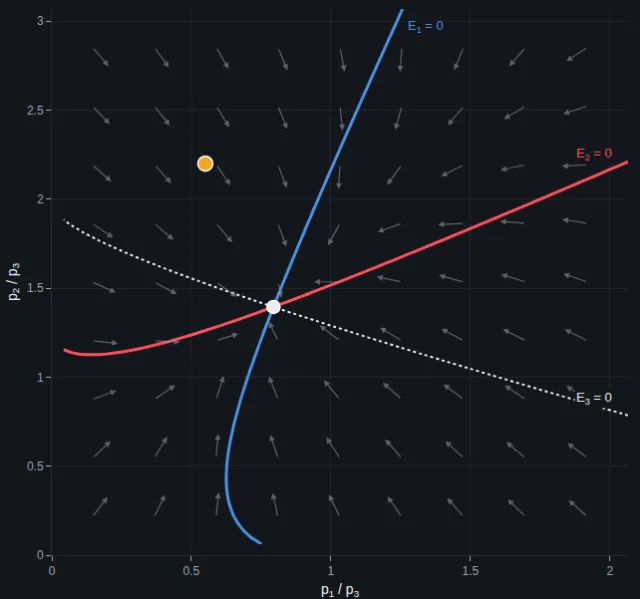
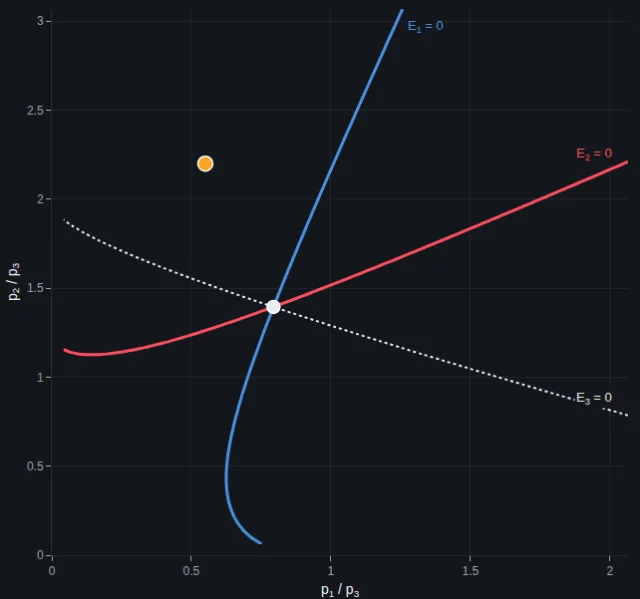
Excess Demand: no auctioneer and no price-adjustment arrows
The lecture does not cover tâtonnement, so the auctioneer (buttons, rounds, path) and the grey
arrows are gone, and the texts no longer say which way prices move. The page shows where each
market clears, the equilibrium where all three meet, the markets at any prices, Walras' law and
homogeneity. Tile sentence and drawing follow.

Claude-Session: https://claude.ai/code/session_01V29oWPHTKd6sXgmneDKd3y

diff --git a/excess-demand/app.js b/excess-demand/app.js
@@ -11,14 +11,14 @@
   }
   const { $, fmt, tex, texStr, guard } = U;
 
-  const state = { ...X.ASSIGNMENT, p1: 0.55, p2: 2.2, lam: 1, trail: null, round: 0, playing: false };
+  const state = { ...X.ASSIGNMENT, p1: 0.55, p2: 2.2, lam: 1 };
   const par = () => ({ rhoA: state.rhoA, rhoB: state.rhoB, alpha: state.alpha, beta: state.beta });
   const prices = () => [state.lam * state.p1, state.lam * state.p2, state.lam];
 
   let ctrls = {};
   const schedule = U.scheduler(render);
 
-  // ---------- what depends only on the economy: equilibrium, view, curves where each market clears, arrows ----------
+  // ---------- what depends only on the economy: equilibrium, view, curves where each market clears ----------
 
   let cache = { key: '' };
   function economyView() {
@@ -30,16 +30,7 @@
     for (let i = 0; i < n; i++) { xs.push(xmax * (0.02 + 0.98 * i / (n - 1))); ys.push(ymax * (0.02 + 0.98 * i / (n - 1))); }
     const Z = [[], [], []];
     ys.forEach(b => { const rows = [[], [], []]; xs.forEach(a => { const E = X.excess([a, b, 1], pr); for (let k = 0; k < 3; k++) rows[k].push(E[k]); }); for (let k = 0; k < 3; k++) Z[k].push(rows[k]); });
-    // Arrows: the direction of price adjustment, d(log p_i) proportional to E_i, drawn in screen proportions.
-    const arrows = [];
-    for (let i = 0; i < 9; i++) for (let j = 0; j < 9; j++) {
-      const a = xmax * (0.07 + 0.86 * i / 8), b = ymax * (0.07 + 0.86 * j / 8), E = X.excess([a, b, 1], pr);
-      const vx = a * E[0] / xmax, vy = b * E[1] / ymax, len = Math.hypot(vx, vy);
-      if (!(len > 1e-9)) continue;
-      const L = 0.045 * Math.min(1, 0.35 + len / 0.15);
-      arrows.push([a, b, a + xmax * vx / len * L, b + ymax * vy / len * L]);
-    }
-    cache = { key, eq, xmax, ymax, xs, ys, Z, arrows };
+    cache = { key, eq, xmax, ymax, xs, ys, Z };
     return cache;
   }
 
@@ -52,10 +43,9 @@
       contours: { start: 0, end: 0, size: 1, coloring: 'none' }, line: { color, width: k === 2 ? 2 : 3, dash }
     });
     traces.push(curve(0, th.blue, 'solid', 'E₁ = 0'), curve(1, th.red, 'solid', 'E₂ = 0'), curve(2, th.ink, 'dot', 'E₃ = 0'));
-    if (state.trail && state.trail.length > 1) traces.push(U.line2(state.trail, th.orange, 2, 'rounds of the auctioneer', 'dot', { mode: 'lines+markers', marker: { size: 6, color: th.orange } }));
     traces.push(U.dot2([[V.eq.p[0], V.eq.p[1]]], th.ink, 'equilibrium', 13));
     traces.push(U.dot2([[state.p1, state.p2]], th.orange, 'current prices', 15));
-    const annotations = V.arrows.map(([x0, y0, x1, y1]) => ({ x: x1, y: y1, ax: x0, ay: y0, axref: 'x', ayref: 'y', showarrow: true, arrowhead: 2, arrowsize: 1, arrowwidth: 1.2, arrowcolor: th.muted, opacity: 0.55, text: '' }));
+    const annotations = [];
     // Label the three curves near the edge of the view.
     const lab = (k, color, text) => {
       const Z = V.Z[k], n = V.xs.length;
@@ -102,7 +92,7 @@
       barmode: 'stack', showlegend: true, legend: { orientation: 'h', y: -0.32, x: 0, font: { size: 11, color: th.ink } },
       xaxis: { type: 'multicategory', color: th.muted, tickfont: { color: th.muted, size: 11 }, fixedrange: true, linecolor: th.line }
     }, { ...U.PLOT_CONFIG, displayModeBar: false });
-    const word = i => Math.abs(e.E[i]) < 5e-3 ? 'clears' : e.E[i] > 0 ? 'excess demand: its price rises' : 'excess supply: its price falls';
+    const word = i => Math.abs(e.E[i]) < 5e-3 ? 'the market clears' : e.E[i] > 0 ? 'excess demand' : 'excess supply';
     $('capM').innerHTML = `Demand (consumers and firms' inputs) next to supply (endowments and firms' output). Good 1: ${word(0)}. Good 2: ${word(1)}. Good 3: ${word(2)}.`;
   }
 
@@ -146,78 +136,20 @@
     guard('numbers', () => renderNumbers(V, e));
   }
 
-  // The auctioneer (Walras' tatonnement), in visible rounds: announce prices, collect excess demands, then raise the
-  // price of each good in excess demand and lower it in excess supply (good 3 is the numéraire). No trade until all clear.
-  const H = 0.3, TOL = 0.005;
-  function roundText(E, k) {
-    const one = i => Math.abs(E[i]) < TOL ? `good ${i + 1} clears` : E[i] > 0
-      ? `good ${i + 1} in excess demand (${texStr(`E_${i + 1}=${fmt(E[i])}`)}), so ${texStr(`p_${i + 1}`)} rises`
-      : `good ${i + 1} in excess supply (${texStr(`E_${i + 1}=${fmt(E[i])}`)}), so ${texStr(`p_${i + 1}`)} falls`;
-    return `Round ${k}: ${one(0)}; ${one(1)}.`;
-  }
-  const cleared = E => Math.abs(E[0]) < TOL && Math.abs(E[1]) < TOL;
-  function say(html) { $('round').innerHTML = html; }
-
-  // One round, drawn as a short glide from the old to the new prices; resolves when done.
-  function oneRound() {
-    return new Promise(resolve => {
-      const from = [state.p1, state.p2], E = X.excess([from[0], from[1], 1], par());
-      if (cleared(E)) {
-        // close enough: settle on the equilibrium itself, so the numbers agree with the panel on the right
-        const eq = economyView().eq.p;
-        if (state.trail) state.trail.push(eq.slice(0, 2));
-        ctrls.p1.setExact(eq[0]); ctrls.p2.setExact(eq[1]);
-        say(`After ${state.round} rounds all markets clear at ${texStr(`p^\\ast=(${fmt(eq[0])},\\ ${fmt(eq[1])},\\ 1)`)}. The auctioneer stops, and trade takes place at these prices.`);
-        resolve(false); return;
-      }
-      const to = [0, 1].map(i => from[i] * Math.exp(Math.max(-0.4, Math.min(0.4, H * E[i]))));
-      if (!state.trail) { state.trail = [from.slice()]; state.round = 0; }
-      state.round += 1;
-      say(roundText(E, state.round));
-      state.trail.push(from.slice());
-      const start = performance.now(), GLIDE = 350;
-      const step = now => {
-        const f = Math.min(1, (now - start) / GLIDE), g = 1 - Math.pow(1 - f, 2);
-        const at = [from[0] + (to[0] - from[0]) * g, from[1] + (to[1] - from[1]) * g];
-        state.trail[state.trail.length - 1] = at;
-        ctrls.p1.setExact(at[0]); ctrls.p2.setExact(at[1]);
-        if (f < 1) requestAnimationFrame(step); else resolve(true);
-      };
-      requestAnimationFrame(step);
-    });
-  }
-
-  async function run(rounds) {
-    if (state.playing) return;
-    state.playing = true;
-    ['animate', 'oneRound', 'toEq'].forEach(id => { $(id).disabled = true; });
-    for (let k = 0; k < rounds; k++) {
-      const moved = await oneRound();
-      if (!moved) break;
-      if (rounds > 1) await new Promise(r => setTimeout(r, state.round > 25 ? 60 : 250));
-    }
-    state.playing = false;
-    ['animate', 'oneRound', 'toEq'].forEach(id => { $(id).disabled = false; });
-  }
-
   function init() {
     U.renderStaticTex();
     // rho = 0 is the Cobb-Douglas limit, where the formula is not defined: step over it.
     const adjust = (key, v) => (key === 'rhoA' || key === 'rhoB') && Math.abs(v) < 0.025 ? (v >= 0 ? 0.05 : -0.05) : v;
-    ctrls = U.controls(document, state, { adjust, onChange: () => { if (!state.playing) { state.trail = null; say(''); } schedule(); } });
-    $('animate').addEventListener('click', () => run(300));
-    $('oneRound').addEventListener('click', () => run(1));
-    $('toEq').addEventListener('click', () => { const V = economyView(); state.trail = null; ctrls.p1.setExact(V.eq.p[0]); ctrls.p2.setExact(V.eq.p[1]); });
+    ctrls = U.controls(document, state, { adjust, onChange: schedule });
+    $('toEq').addEventListener('click', () => { const V = economyView(); ctrls.p1.setExact(V.eq.p[0]); ctrls.p2.setExact(V.eq.p[1]); });
     $('assignment').addEventListener('click', () => { Object.entries(X.ASSIGNMENT).forEach(([k, v]) => ctrls[k].setExact(v)); });
     // Drag the current prices in the plane.
     const gd = $('plot');
     let dragging = false;
     const move = ev => {
-      if (state.playing) return;
       const v = U.eventToData(gd, ev);
       if (!v) return;
       const V = economyView();
-      state.trail = null;
       ctrls.p1.setExact(U.clampTo(v[0], 0.03 * V.xmax, V.xmax));
       ctrls.p2.setExact(U.clampTo(v[1], 0.03 * V.ymax, V.ymax));
     };

diff --git a/index.html b/index.html
@@ -272,10 +272,10 @@
         <p>Offer curves, equilibria, the core and the welfare theorems in a two-person exchange economy.</p>
       </a>
       <a class="card" href="excess-demand/index.html">
-        <svg class="glyph" width="64" height="64" viewBox="0 0 64 64" aria-hidden="true" focusable="false"><path d="M9 5V55H59" fill="none" stroke="currentColor" stroke-width="1.2" opacity="0.45"/><path d="M15 55L15.8 53.7L16.5 52.4L17.3 51.2L18 49.9L18.8 48.6L19.5 47.3L20.3 46L21 44.7L21.8 43.5L22.5 42.2L23.3 40.9L24 39.6L24.8 38.3L25.6 37.1L26.3 35.8L27.1 34.5L27.8 33.2L28.6 31.9L29.3 30.7L30.1 29.4L30.8 28.1L31.6 26.8L32.3 25.5L33.1 24.2L33.8 23L34.6 21.7L35.4 20.4L36.1 19.1L36.9 17.8L37.6 16.6L38.4 15.3L39.1 14L39.9 12.7L40.6 11.4L41.4 10.1L42.1 8.9L42.9 7.6L43.6 6.3L44.4 5" fill="none" stroke="currentColor" stroke-width="2" stroke-linecap="round" stroke-linejoin="round"/><path class="a" d="M9 43L10.3 42.4L11.6 41.8L12.8 41.3L14.1 40.7L15.4 40.1L16.7 39.5L18 39L19.3 38.4L20.5 37.8L21.8 37.2L23.1 36.7L24.4 36.1L25.7 35.5L26.9 34.9L28.2 34.3L29.5 33.8L30.8 33.2L32.1 32.6L33.4 32L34.6 31.5L35.9 30.9L37.2 30.3L38.5 29.7L39.8 29.2L41.1 28.6L42.3 28L43.6 27.4L44.9 26.8L46.2 26.3L47.5 25.7L48.7 25.1L50 24.5L51.3 24L52.6 23.4L53.9 22.8L55.2 22.2L56.4 21.7L57.7 21.1L59 20.5" fill="none" stroke="#1d5bd8" stroke-width="2" stroke-linecap="round" stroke-linejoin="round"/><g opacity="0.5"><path d="M14 12L17.9 19" fill="none" stroke="currentColor" stroke-width="1.4" stroke-linecap="round" stroke-linejoin="round"/><path d="M18 14.1L17.9 19L13.6 16.5" fill="none" stroke="currentColor" stroke-width="1.6" stroke-linecap="round" stroke-linejoin="round"/></g><g opacity="0.5"><path d="M55 14L48.6 18.8" fill="none" stroke="currentColor" stroke-width="1.4" stroke-linecap="round" stroke-linejoin="round"/><path d="M53.5 18.3L48.6 18.8L50.4 14.2" fill="none" stroke="currentColor" stroke-width="1.6" stroke-linecap="round" stroke-linejoin="round"/></g><g opacity="0.5"><path d="M54 50L47 46.1" fill="none" stroke="currentColor" stroke-width="1.4" stroke-linecap="round" stroke-linejoin="round"/><path d="M49.5 50.4L47 46.1L51.9 46" fill="none" stroke="currentColor" stroke-width="1.6" stroke-linecap="round" stroke-linejoin="round"/></g><g opacity="0.5"><path d="M16 51L20.5 44.4" fill="none" stroke="currentColor" stroke-width="1.4" stroke-linecap="round" stroke-linejoin="round"/><path d="M16 46.4L20.5 44.4L20.2 49.3" fill="none" stroke="currentColor" stroke-width="1.6" stroke-linecap="round" stroke-linejoin="round"/></g><circle cx="26.8" cy="35" r="3" fill="currentColor"/></svg>
+        <svg class="glyph" width="64" height="64" viewBox="0 0 64 64" aria-hidden="true" focusable="false"><path d="M9 5V55H59" fill="none" stroke="currentColor" stroke-width="1.2" opacity="0.45"/><path d="M9 26.1L59 51.1" fill="none" stroke="currentColor" stroke-width="1.3" stroke-linecap="round" stroke-linejoin="round" opacity="0.45" stroke-dasharray="3 3"/><path d="M15 55L15.8 53.7L16.5 52.4L17.3 51.2L18 49.9L18.8 48.6L19.5 47.3L20.3 46L21 44.7L21.8 43.5L22.5 42.2L23.3 40.9L24 39.6L24.8 38.3L25.6 37.1L26.3 35.8L27.1 34.5L27.8 33.2L28.6 31.9L29.3 30.7L30.1 29.4L30.8 28.1L31.6 26.8L32.3 25.5L33.1 24.2L33.8 23L34.6 21.7L35.4 20.4L36.1 19.1L36.9 17.8L37.6 16.6L38.4 15.3L39.1 14L39.9 12.7L40.6 11.4L41.4 10.1L42.1 8.9L42.9 7.6L43.6 6.3L44.4 5" fill="none" stroke="currentColor" stroke-width="2" stroke-linecap="round" stroke-linejoin="round"/><path class="a" d="M9 43L10.3 42.4L11.6 41.8L12.8 41.3L14.1 40.7L15.4 40.1L16.7 39.5L18 39L19.3 38.4L20.5 37.8L21.8 37.2L23.1 36.7L24.4 36.1L25.7 35.5L26.9 34.9L28.2 34.3L29.5 33.8L30.8 33.2L32.1 32.6L33.4 32L34.6 31.5L35.9 30.9L37.2 30.3L38.5 29.7L39.8 29.2L41.1 28.6L42.3 28L43.6 27.4L44.9 26.8L46.2 26.3L47.5 25.7L48.7 25.1L50 24.5L51.3 24L52.6 23.4L53.9 22.8L55.2 22.2L56.4 21.7L57.7 21.1L59 20.5" fill="none" stroke="#1d5bd8" stroke-width="2" stroke-linecap="round" stroke-linejoin="round"/><circle cx="26.8" cy="35" r="3" fill="currentColor"/></svg>
         <picture class="preview" aria-hidden="true" style="display:none"><source srcset="excess-demand/preview-dark.webp" media="(prefers-color-scheme: dark)"><img src="excess-demand/preview.webp" alt="" loading="lazy" decoding="async"></picture>
         <h3>Excess Demand and Equilibrium</h3>
-        <p>Three goods, two firms, two consumers: excess demand moves the prices until every market clears.</p>
+        <p>Three goods, two firms, two consumers: the prices at which excess demand is zero in every market.</p>
       </a>
       <a class="card" href="core-replica/index.html">
         <svg class="glyph" width="64" height="64" viewBox="0 0 64 64" aria-hidden="true" focusable="false"><rect x="7" y="7" width="50" height="50" fill="none" stroke="currentColor" stroke-width="1.2" opacity="0.45"/><path d="M13 51Q19 19 51 13Q37 41 13 51Z" fill="none" stroke="currentColor" stroke-width="1.3" opacity="0.45"/><path d="M19 45Q23 26 44 21Q37 37 19 45Z" fill="none" stroke="currentColor" stroke-width="1.6" opacity="0.75"/><path class="af" d="M26 38Q28 29 38 27Q35 34 26 38Z" fill="#1d5bd8" opacity="0.4"/><circle class="af" cx="32" cy="32" r="2.8" fill="#1d5bd8"/></svg>

diff --git a/excess-demand/index.html b/excess-demand/index.html
@@ -30,8 +30,7 @@
           <summary>How to read this</summary>
           <p>At any prices, excess demand, demand minus supply, says which markets are out of balance. Good 3 is the numéraire, so every point of the plane is a price vector. On the <span class="c-l2-blue">blue curve</span> market 1 clears, on the <span class="c-l2-red">red curve</span> market 2; the equilibrium is where they cross.</p>
           <ul>
-          <li>Drag the <span class="c-l2-orange">orange point</span>: the bars show which goods are in excess demand. Each grey arrow shows where the prices would move from that point: up for a good in excess demand, down for a good in excess supply.</li>
-          <li>Press <b>▶ Run the auctioneer</b> or <b>One round</b>. In each round an auctioneer announces prices, collects everyone's demand and supply, and adjusts the prices that way. Nobody trades until all markets clear (Walras' tâtonnement).</li>
+          <li>Drag the <span class="c-l2-orange">orange point</span>: the bars show which goods are in excess demand and which in excess supply at those prices.</li>
           <li>The dotted curve, where market 3 clears, passes through the same point: Walras' law.</li>
           <li>Move <span class="tex" data-tex="\lambda"></span>: multiplying all prices changes nothing.</li>
           </ul>
@@ -61,14 +60,11 @@
       <div class="panel-head">
         <h2>Where each market clears</h2>
         <div class="btn-row">
-          <button type="button" class="go" id="animate">▶ Run the auctioneer</button>
-          <button type="button" id="oneRound">One round</button>
           <button type="button" id="toEq">Equilibrium</button>
         </div>
       </div>
       <div id="plot" class="plot plot-main" aria-label="Price plane: drag the orange point"></div>
-      <p class="round" id="round" aria-live="polite"></p>
-      <p class="caption"><span class="c-l2-blue"><span class="key"></span><span class="tex" data-tex="E_1=0"></span></span>, <span class="c-l2-red"><span class="key"></span><span class="tex" data-tex="E_2=0"></span></span> and <span class="c-ink"><span class="key dash"></span><span class="tex" data-tex="E_3=0"></span></span>: the prices at which market 1, 2 or 3 clears. The <span class="c-ink"><span class="key dot"></span>equilibrium</span> is where all three meet; the <span class="c-l2-orange"><span class="key dot"></span>current prices</span> can be dragged. Grey arrows: from each point, the direction in which the auctioneer moves the prices. The orange dots are the rounds.</p>
+      <p class="caption"><span class="c-l2-blue"><span class="key"></span><span class="tex" data-tex="E_1=0"></span></span>, <span class="c-l2-red"><span class="key"></span><span class="tex" data-tex="E_2=0"></span></span> and <span class="c-ink"><span class="key dash"></span><span class="tex" data-tex="E_3=0"></span></span>: the prices at which market 1, 2 or 3 clears. The <span class="c-ink"><span class="key dot"></span>equilibrium</span> is where all three meet; the <span class="c-l2-orange"><span class="key dot"></span>current prices</span> can be dragged.</p>
     </section>
 
     <div class="side">

diff --git a/excess-demand/style.css b/excess-demand/style.css
@@ -3,6 +3,4 @@
 .plot-markets { height: 300px; }
 .plot-walras { height: 150px; }
 @media (max-width: 800px) { .plot-main { height: 420px; } .plot-markets { height: 280px; } }
-.btn-row button.go { border-color: var(--ink); font-weight: 600; }
 .btn-row button:disabled { opacity: 0.5; cursor: default; }
-.round { min-height: 2.9em; margin: 6px 0 0; font-size: 13.5px; color: var(--ink); }

diff --git a/HANDOFF.md b/HANDOFF.md
@@ -23,7 +23,7 @@ Repo `LukasLaffers/microvis`, live at https://lukaslaffers.github.io/microvis/ (
 
 
 ### Not merged yet (on the branch, preview sent)
-- **New tool: Excess Demand and Equilibrium** (`excess-demand/`, lecture 9, tile after the Edgeworth Box), built on the economy of the 2021 Assignment 2: three goods, two firms (CES of degree 1/2, making good 3 from goods 1 and 2), two Cobb-Douglas consumers who own the firms. Price plane with p3 = 1: curves where each market clears (all three meet: Walras' law), grey arrows of price adjustment, draggable prices, **▶ Run the auctioneer** and **One round** in the figure heading: Walras' tâtonnement in visible rounds (step 0.3 in log prices, ~0.6 s per round, about 16 rounds for the assignment), a sentence under the figure says what happens in each round, the last round settles on the exact equilibrium. The user asked what the arrows mean and found the first version too fast. The price plane uses `Plotly.react`, not `U.plot`: with `Plotly.animate(..., {redraw: false})` the contour traces (the three curves) disappear. Side: the three markets as demand/supply bars, the values p_i E_i that add up to zero, λ for homogeneity. Shows numbers only, not the excess demand formulas (part 7 of the assignment). `model.js` tested: Walras' law and homogeneity at random prices, budgets, firm and consumer optimality by brute force, the auctioneer converging from four corners, the assignment's equilibrium (0.794, 1.395, 1) and quantities.
+- **New tool: Excess Demand and Equilibrium** (`excess-demand/`, lecture 9, tile after the Edgeworth Box), built on the economy of the 2021 Assignment 2: three goods, two firms (CES of degree 1/2, making good 3 from goods 1 and 2), two Cobb-Douglas consumers who own the firms. Price plane with p3 = 1: curves where each market clears (all three meet: Walras' law), a draggable price point and an **Equilibrium** button. No price-adjustment arrows and no auctioneer (tâtonnement): the user removed them because the lecture does not cover them. The price plane uses `Plotly.react`, not `U.plot`: with `Plotly.animate(..., {redraw: false})` the contour traces (the three curves) disappear. Side: the three markets as demand/supply bars, the values p_i E_i that add up to zero, λ for homogeneity. Shows numbers only, not the excess demand formulas (part 7 of the assignment). `model.js` tested: Walras' law and homogeneity at random prices, budgets, firm and consumer optimality by brute force, the auctioneer converging from four corners, the assignment's equilibrium (0.794, 1.395, 1) and quantities.
 
 ### Next
 Nothing requested. Open question to the user: does One Step vs Two Steps (3D) animate smoothly on their Mac? (Not measurable in the container: no GPU.)

diff --git a/plans/lecture-9.md b/plans/lecture-9.md
@@ -12,7 +12,7 @@ Lecture 9: *General equilibrium.* It covers:
 | Folder | Title | Lecture idea | Notes' figures |
 |---|---|---|---|
 | `edgeworth-box/` | The Edgeworth Box | offer curves, equilibria where they cross (one or three), contract curve, lens and core, excess demand with Walras' law and homogeneity, second welfare theorem with a lump-sum transfer of good 1 | Cowell 5.1, 7.2–7.5, 7.7 |
-| `excess-demand/` | Excess Demand and Equilibrium | the economy of Assignment 2 (2021): three goods, two firms (CES of degree 1/2), two Cobb-Douglas consumers who own the firms; the price plane with p3 = 1, where each market clears (E1 = 0, E2 = 0, E3 = 0 meet at one point), arrows of price adjustment and the auctioneer's path, the three markets as demand/supply bars, Walras' law at every price, homogeneity of degree zero; equilibrium (0.794, 1.395, 1) | notes 9, excess demand functions |
+| `excess-demand/` | Excess Demand and Equilibrium | the economy of Assignment 2 (2021): three goods, two firms (CES of degree 1/2), two Cobb-Douglas consumers who own the firms; the price plane with p3 = 1, where each market clears (E1 = 0, E2 = 0, E3 = 0 meet at one point), the three markets as demand/supply bars, Walras' law at every price, homogeneity of degree zero; equilibrium (0.794, 1.395, 1) | notes 9, excess demand functions |
 | `core-replica/` | The Core Shrinks | the notes' blocking coalition in the $N$-replica, the surviving part of the core as $N$ grows | Cowell 7.6 |
 
 The exchange economy math is in `shared/exchange-model.js` (tests: `node shared/test-exchange-model.cjs`). Consumers have CES utility from `shared/consumer-model.js`.
